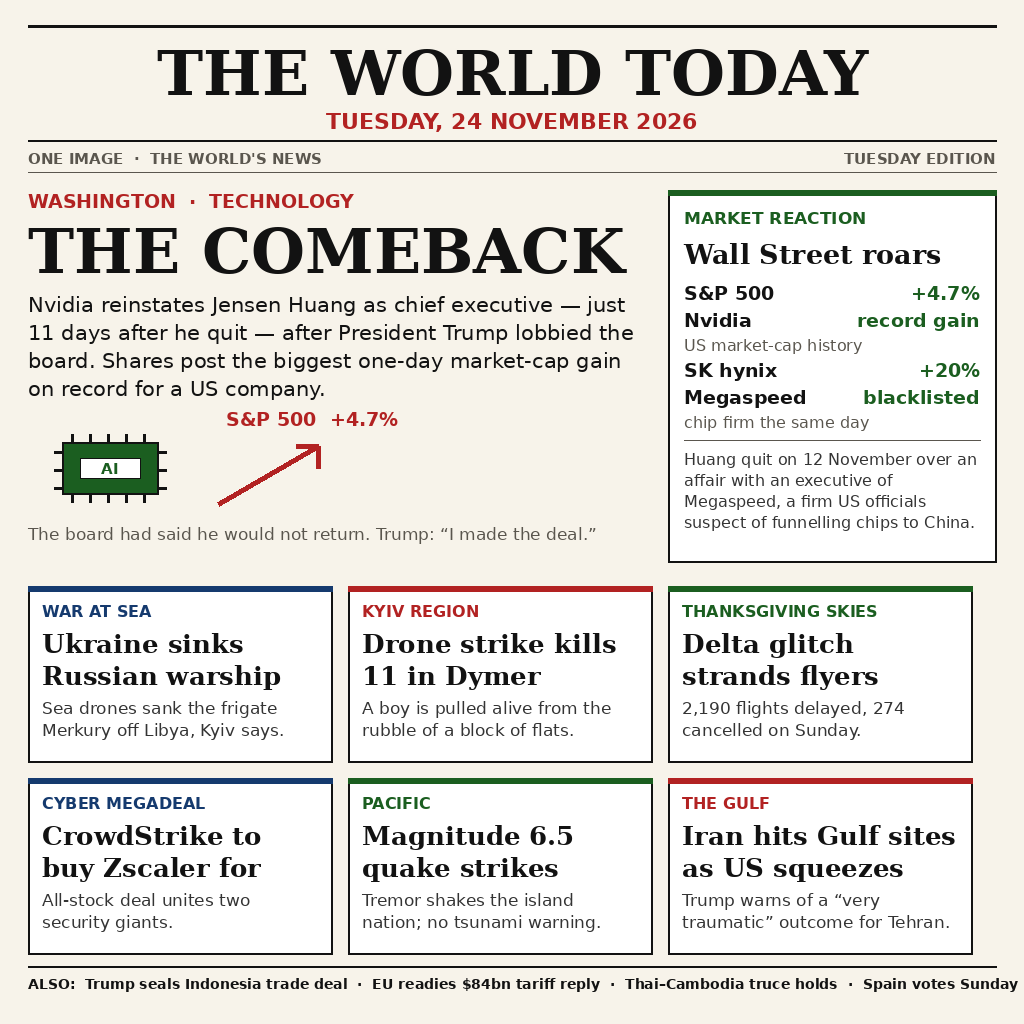
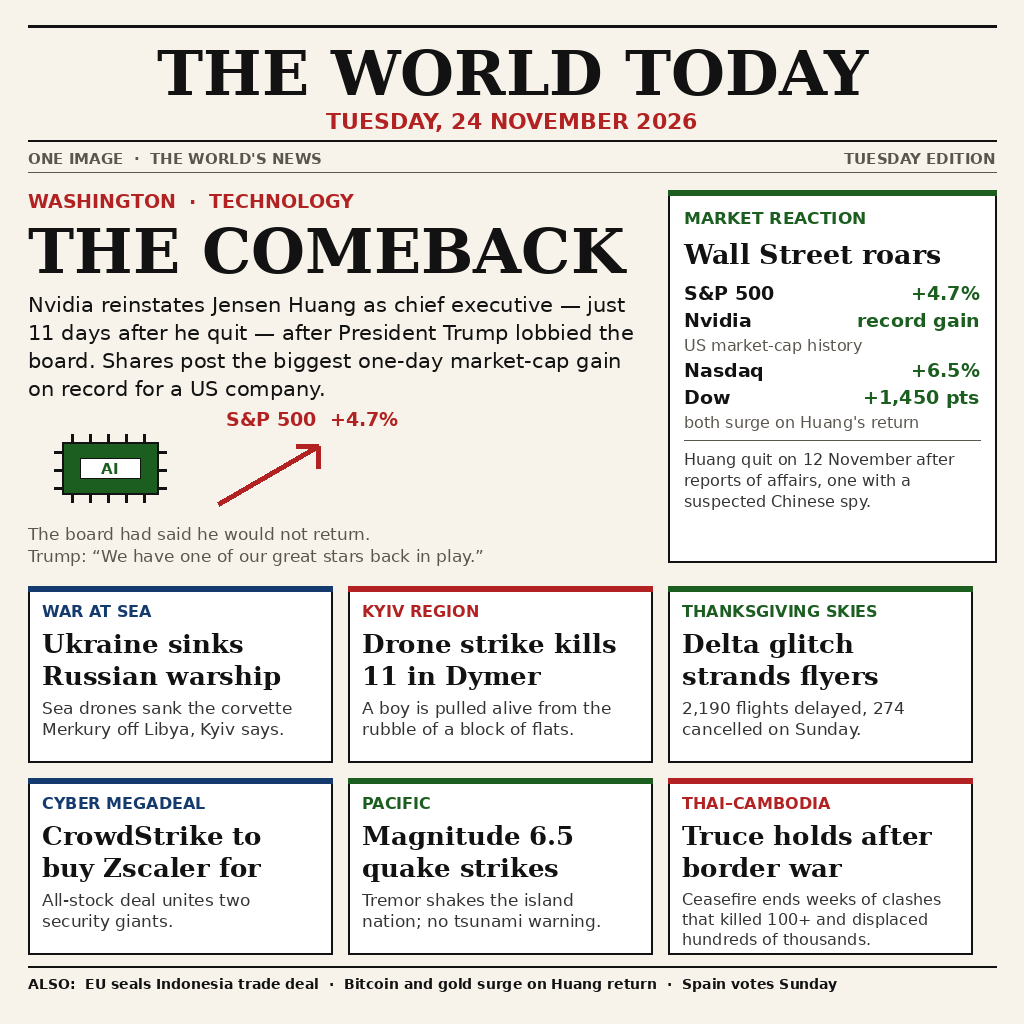
Fix factual defects: EU–Indonesia deal, Thai–Cambodia tile, corvette, market rows, Trump quote

diff --git a/draw_poster.py b/draw_poster.py
@@ -57,7 +57,8 @@ def rule(draw, x0, y, x1, width=2, fill=RULE):
     draw.line([(x0, y), (x1, y)], fill=fill, width=width)
 
 
-def tile(draw, x, y, w, h, kicker, headline, body, accent=RED, head_size=26):
+def tile(draw, x, y, w, h, kicker, headline, body, accent=RED,
+         head_size=26, body_size=17, body_lines=2):
     """One bordered news tile with kicker, headline and body text."""
     draw.rectangle([x, y, x + w, y + h], fill=TILE_BG, outline=INK, width=2)
     draw.rectangle([x, y, x + w, y + 5], fill=accent)
@@ -68,11 +69,13 @@ def tile(draw, x, y, w, h, kicker, headline, body, accent=RED, head_size=26):
     for line in lines:
         draw.text((kx, hy), line, font=font(SERIF_B, head_size), fill=INK)
         hy += head_size + 6
-    blines = wrap(draw, body, font(SANS, 17), w - 28)[:2]
+    blines = wrap(draw, body, font(SANS, body_size),
+                  w - 28)[:body_lines]
     by = hy + 6
     for line in blines:
-        draw.text((kx, by), line, font=font(SANS, 17), fill=(52, 52, 52))
-        by += 22
+        draw.text((kx, by), line, font=font(SANS, body_size),
+                  fill=(52, 52, 52))
+        by += int(body_size * 1.28)
 
 
 def main():
@@ -129,8 +132,10 @@ def main():
     d.line([(ax0 + 100, ay0 - 58), (ax0 + 100, ay0 - 36)], fill=RED, width=5)
     d.text((ax0 + 8, ay0 - 96), "S&P 500  +4.7%",
            font=font(SANS_B, 19), fill=RED)
-    d.text((lx, gy + 104), "The board had said he would not return. "
-           "Trump: \u201cI made the deal.\u201d",
+    d.text((lx, gy + 104), "The board had said he would not return.",
+           font=font(SANS, 17), fill=GREY)
+    d.text((lx, gy + 126), "Trump: \u201cWe have one of our great stars "
+           "back in play.\u201d",
            font=font(SANS, 17), fill=GREY)
 
     # ---- Market reaction box (right of lead) ----
@@ -147,9 +152,9 @@ def main():
         ("S&P 500", "+4.7%", "in a single session"),
         ("Nvidia", "record gain", "largest one-day rise in"),
         ("", "", "US market-cap history"),
-        ("SK hynix", "+20%", "shares surge in Seoul"),
-        ("Megaspeed", "blacklisted", "US bars the Singapore"),
-        ("", "", "chip firm the same day"),
+        ("Nasdaq", "+6.5%", "in a single session"),
+        ("Dow", "+1,450 pts", "points gained Monday"),
+        ("", "", "both surge on Huang's return"),
     ]
     ry = by + 92
     for name, val, note in rows:
@@ -163,16 +168,15 @@ def main():
             ry += 23
     rule(d, bx + 16, ry + 4, bx + bw - 16, width=1, fill=GREY)
     para(d, bx + 16, ry + 14,
-         "Huang quit on 12 November over an affair with an executive "
-         "of Megaspeed, a firm US officials suspect of funnelling "
-         "chips to China.", font(SANS, 16), bw - 32, fill=(52, 52, 52),
-         leading=21)
+         "Huang quit on 12 November after reports of affairs, one "
+         "with a suspected Chinese spy.", font(SANS, 16), bw - 32,
+         fill=(52, 52, 52), leading=21)
 
     # ---- Row 2: three tiles ----
     ty, th, tw, gap = 586, 176, 304, 16
     tile(d, M, ty, tw, th, "WAR AT SEA",
          "Ukraine sinks Russian warship",
-         "Sea drones sank the frigate Merkury off Libya, Kyiv says.",
+         "Sea drones sank the corvette Merkury off Libya, Kyiv says.",
          accent=BLUE)
     tile(d, M + tw + gap, ty, tw, th, "KYIV REGION",
          "Drone strike kills 11 in Dymer",
@@ -193,17 +197,17 @@ def main():
          "Magnitude 6.5 quake strikes Vanuatu",
          "Tremor shakes the island nation; no tsunami warning.",
          accent=GREEN)
-    tile(d, M + 2 * (tw + gap), ty2, tw, th, "THE GULF",
-         "Iran hits Gulf sites as US squeezes",
-         "Trump warns of a \u201cvery traumatic\u201d outcome for Tehran.",
-         accent=RED)
+    tile(d, M + 2 * (tw + gap), ty2, tw, th, "THAI\u2013CAMBODIA",
+         "Truce holds after border war",
+         "Ceasefire ends weeks of clashes that killed 100+ and "
+         "displaced hundreds of thousands.",
+         accent=RED, body_size=16, body_lines=3)
 
     # ---- Also strip + footer ----
     rule(d, M, 966, R, width=2)
     d.text((M, 976),
-           "ALSO:  Trump seals Indonesia trade deal  \u00b7  EU readies "
-           "$84bn tariff reply  \u00b7  Thai\u2013Cambodia truce holds  "
-           "\u00b7  Spain votes Sunday",
+           "ALSO:  EU seals Indonesia trade deal  \u00b7  Bitcoin and "
+           "gold surge on Huang return  \u00b7  Spain votes Sunday",
            font=font(SANS_B, 14), fill=INK)
     img.save("entry.png", format="PNG", optimize=True)
 

diff --git a/README.md b/README.md
@@ -19,10 +19,10 @@ six news tiles and an "also in the news" strip.
   executive, just 11 days after he quit, after President Trump lobbied
   the board; the shares post the biggest one-day market-cap gain on
   record for a US company, and the S&P 500 jumps 4.7%.
-- **Market reaction:** S&P 500 +4.7%, Nvidia's record gain, SK hynix
-  +20%, and the US blacklisting of Megaspeed the same day — the
-  Singapore chip firm at the centre of the affair that cost Huang his
-  job on 12 November.
+- **Market reaction:** S&P 500 +4.7%, Nvidia's record gain, Nasdaq
+  +6.5% and the Dow up 1,450 points — both surging on Huang's return.
+  Huang quit on 12 November after reports of affairs, one with a
+  suspected Chinese spy.
 - **War at sea:** Ukraine sinks the Russian warship Merkury off Libya
   with sea drones.
 - **Kyiv region:** a Russian drone strike kills 11 in Dymer; a boy is
@@ -33,11 +33,10 @@ six news tiles and an "also in the news" strip.
   in an all-stock deal.
 - **Pacific:** a magnitude 6.5 earthquake strikes Vanuatu, with no
   tsunami warning.
-- **The Gulf:** Iran hits Gulf sites as the US tightens sanctions, and
-  Trump warns Tehran of a "very traumatic" outcome.
-- **Also:** Trump seals an Indonesia trade deal, the EU readies an
-  $84bn tariff reply, the Thai–Cambodia truce holds, and Spain votes
-  on Sunday.
+- **Thai–Cambodia:** a ceasefire holds after weeks of border clashes
+  that killed 100+ and displaced hundreds of thousands.
+- **Also:** the EU seals an Indonesia trade deal, Bitcoin and gold
+  surge on Huang's return, and Spain votes on Sunday.
 
 Every fact on the page was checked against wire reporting from 23–24
 November 2026 (Reuters, The Wall Street Journal, CNN, AP and others).
